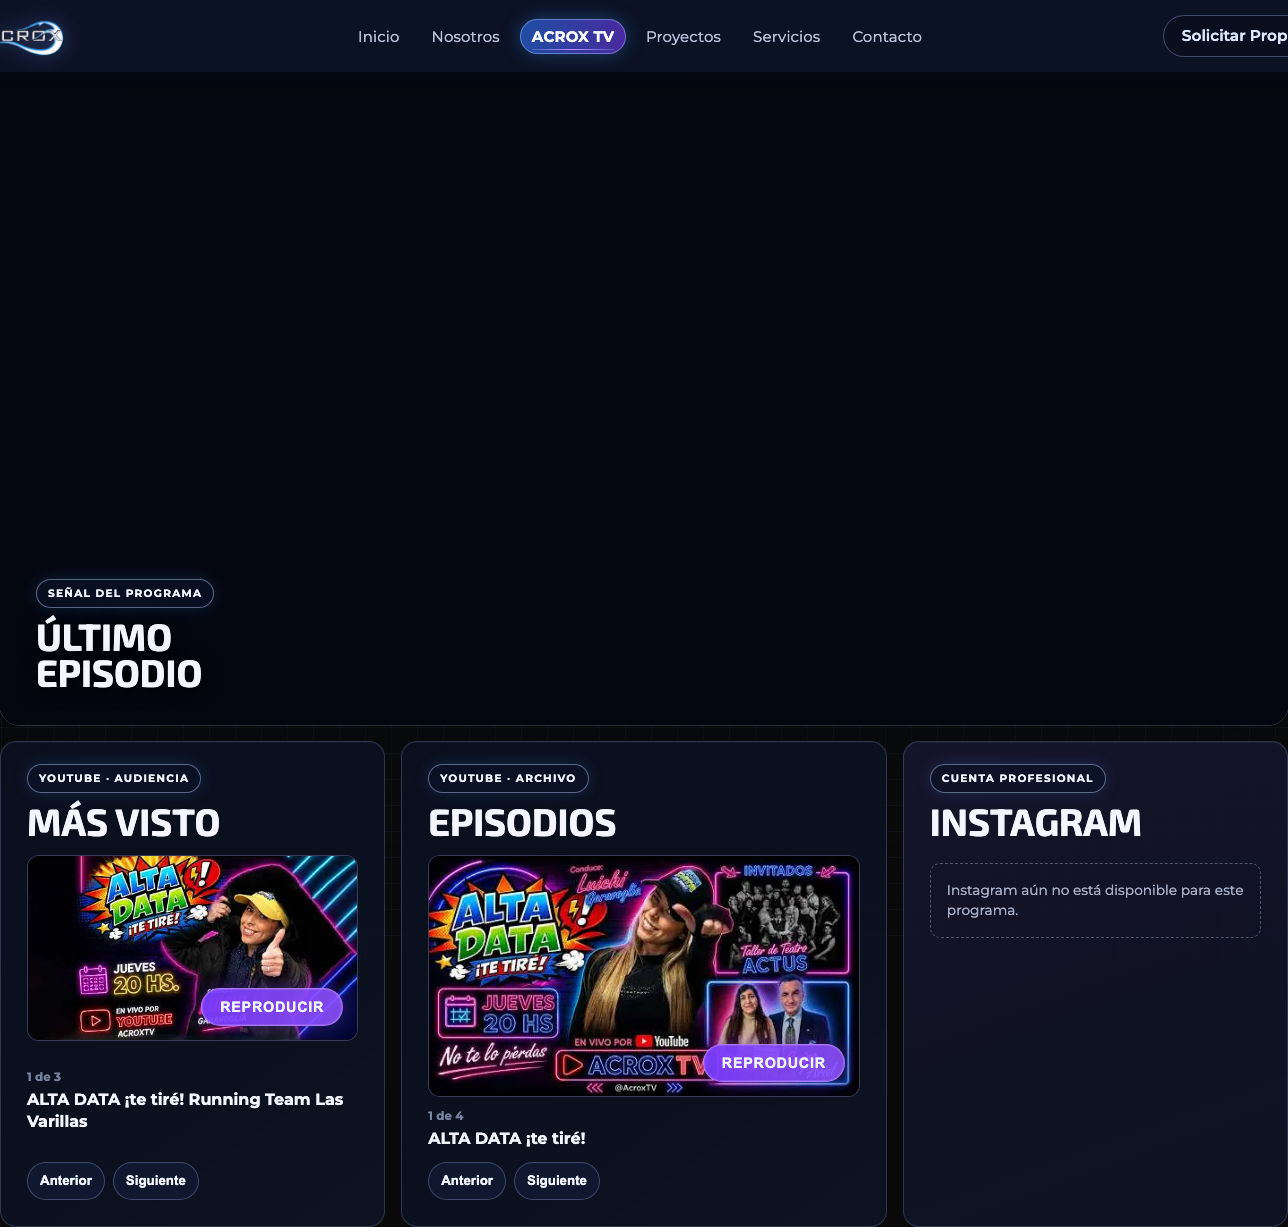
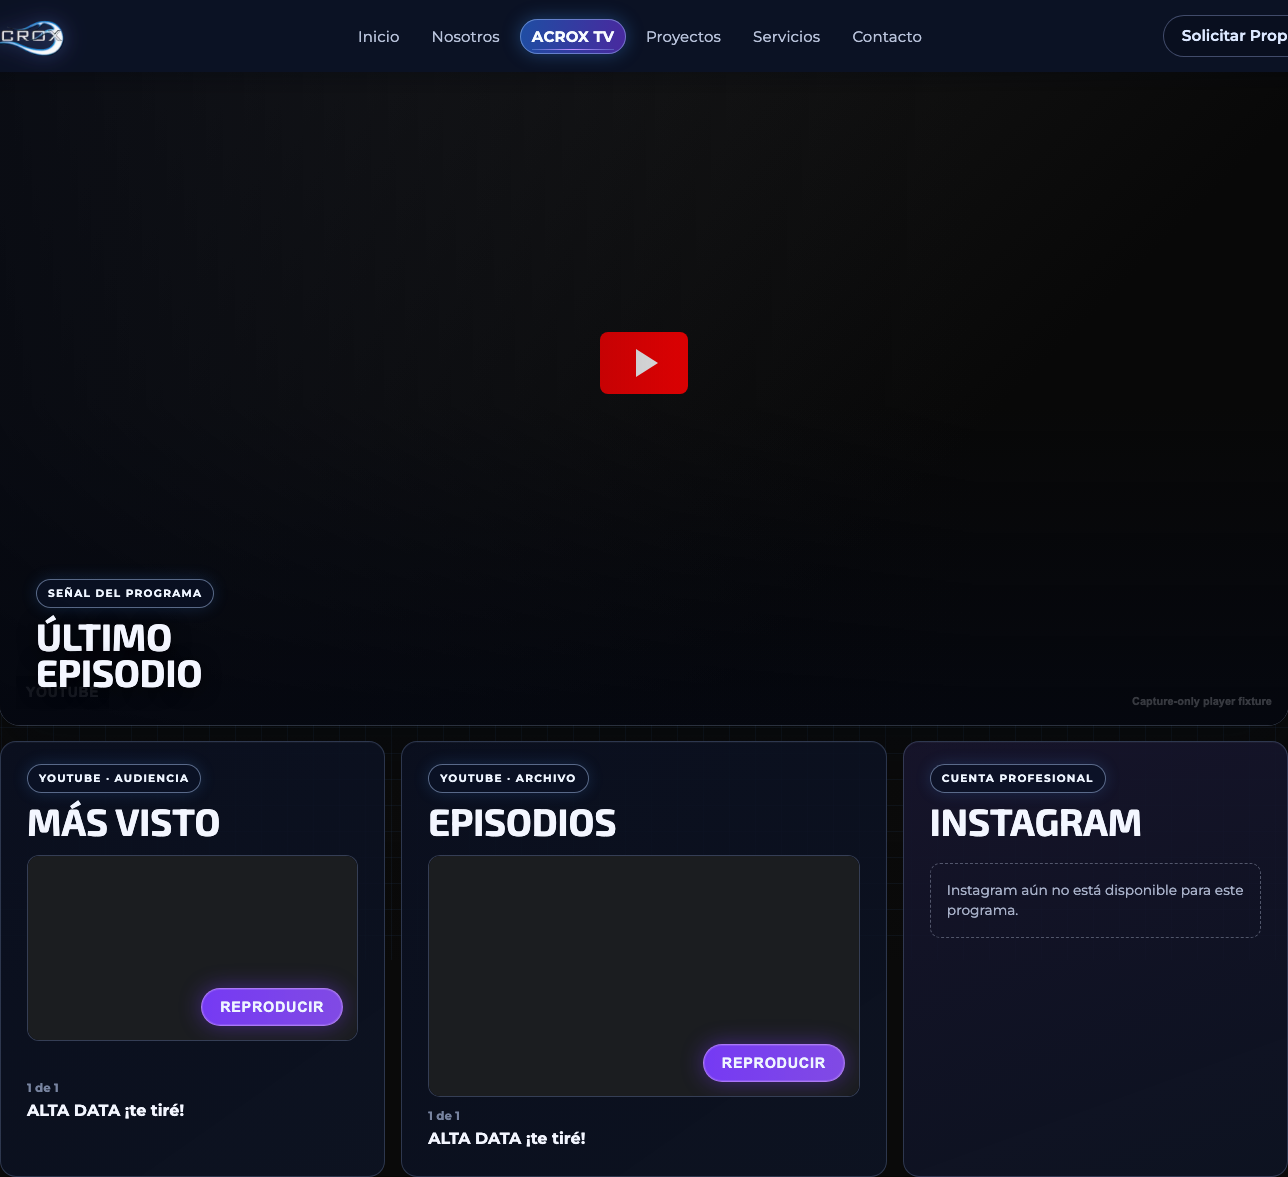
test(evidence): fixture WP-7 player captures

diff --git a/evidence/wp-7-program-media-dashboard/report.md b/evidence/wp-7-program-media-dashboard/report.md
@@ -31,13 +31,36 @@ Each capture is a dashboard target, not a geometry crop: it includes the dominan
 | `/alta-data-te-tire` | `alta-data-te-tire-desktop-thumbnail.png`, `alta-data-te-tire-desktop-player.png` | `alta-data-te-tire-mobile-thumbnail.png`, `alta-data-te-tire-mobile-player.png` |
 | `/mas-que-nutricion` | `mas-que-nutricion-desktop-thumbnail.png`, `mas-que-nutricion-desktop-player.png` | `mas-que-nutricion-mobile-thumbnail.png`, `mas-que-nutricion-mobile-player.png` |
 
-The live scoped feeds returned 9 Alta episodes and 8 Más que Nutrición episodes. The rendered lead images loaded at non-zero media resolutions, and the player-state captures show the corresponding scoped `youtube-nocookie` embeds. Desktop metadata records the lead above the three aligned panels; mobile metadata records the same-width vertical panel stack.
+The live scoped feeds returned 9 Alta episodes and 8 Más que Nutrición episodes. The thumbnail captures are live: the rendered lead images loaded at non-zero media resolutions. Desktop metadata records the lead above the three aligned panels; mobile metadata records the same-width vertical panel stack.
+
+### Player-state capture fixture (not live playback)
+
+Headless Chromium paints the live YouTube iframe black. For **player-state screenshots only**, `capture-live-dashboard.mjs` installs this deterministic route **before user activation**:
+
+```js
+await context.route("https://www.youtube-nocookie.com/embed/**", async (request) => {
+  await request.fulfill({ contentType: "text/html; charset=utf-8", body: captureOnlyPlayerHtml });
+});
+```
+
+The production application remains untouched. Clicking the real lead control still produces its real `youtube-nocookie` iframe URL; the capture script asserts that its origin is `https://www.youtube-nocookie.com` and that `/embed/<videoId>` matches the scoped leading item before the intercept supplies the following local HTML:
+
+```html
+<main class="player" aria-label="Capture-only YouTube player fixture">
+  <div class="badge" aria-hidden="true"></div>
+  <div class="label">YouTube</div>
+  <div class="notice">Capture-only player fixture</div>
+</main>
+```
+
+The complete deterministic HTML and interception pattern are recorded verbatim in `capture-live-dashboard.mjs` and `capture-metadata.json`. `CAPTURE_PLAYER_FIXTURE=1` also routes only the two program-feed requests to public, previously live-captured leading items so capture can run without credentials; it preserves the prior live thumbnail records and overwrites only the four player-state PNGs. The recognizable red play badge, YouTube label, and fixture notice make the player-state PNGs visibly distinguishable from live playback. They prove activation, production URL/scoped-video binding, and lead-container layout only; they do **not** claim rendered YouTube playback. Thumbnail PNGs remain the live thumbnail evidence.
 
 ## Reproduction
 
 1. Start the already-built candidate with the required public variables and a transient `YOUTUBE_API_KEY`.
-2. Run `BASE_URL=http://127.0.0.1:<port> node evidence/wp-7-program-media-dashboard/capture-live-dashboard.mjs`.
-3. Run `node evidence/wp-7-program-media-dashboard/normalize-output.mjs` and `node evidence/wp-7-program-media-dashboard/create-manifest.mjs`.
+2. For a full run with a transient `YOUTUBE_API_KEY`, run `BASE_URL=http://127.0.0.1:<port> node evidence/wp-7-program-media-dashboard/capture-live-dashboard.mjs`. This captures live thumbnails and capture-only fixture player states.
+3. For the deterministic player-only remediation, run `CAPTURE_PLAYER_FIXTURE=1 BASE_URL=http://127.0.0.1:<port> node evidence/wp-7-program-media-dashboard/capture-live-dashboard.mjs`. This keeps the retained live thumbnail metadata and re-captures only desktop/mobile player states for both routes.
+4. Run `node evidence/wp-7-program-media-dashboard/normalize-output.mjs` and `node evidence/wp-7-program-media-dashboard/create-manifest.mjs`.
 
 ## Rollback
 
